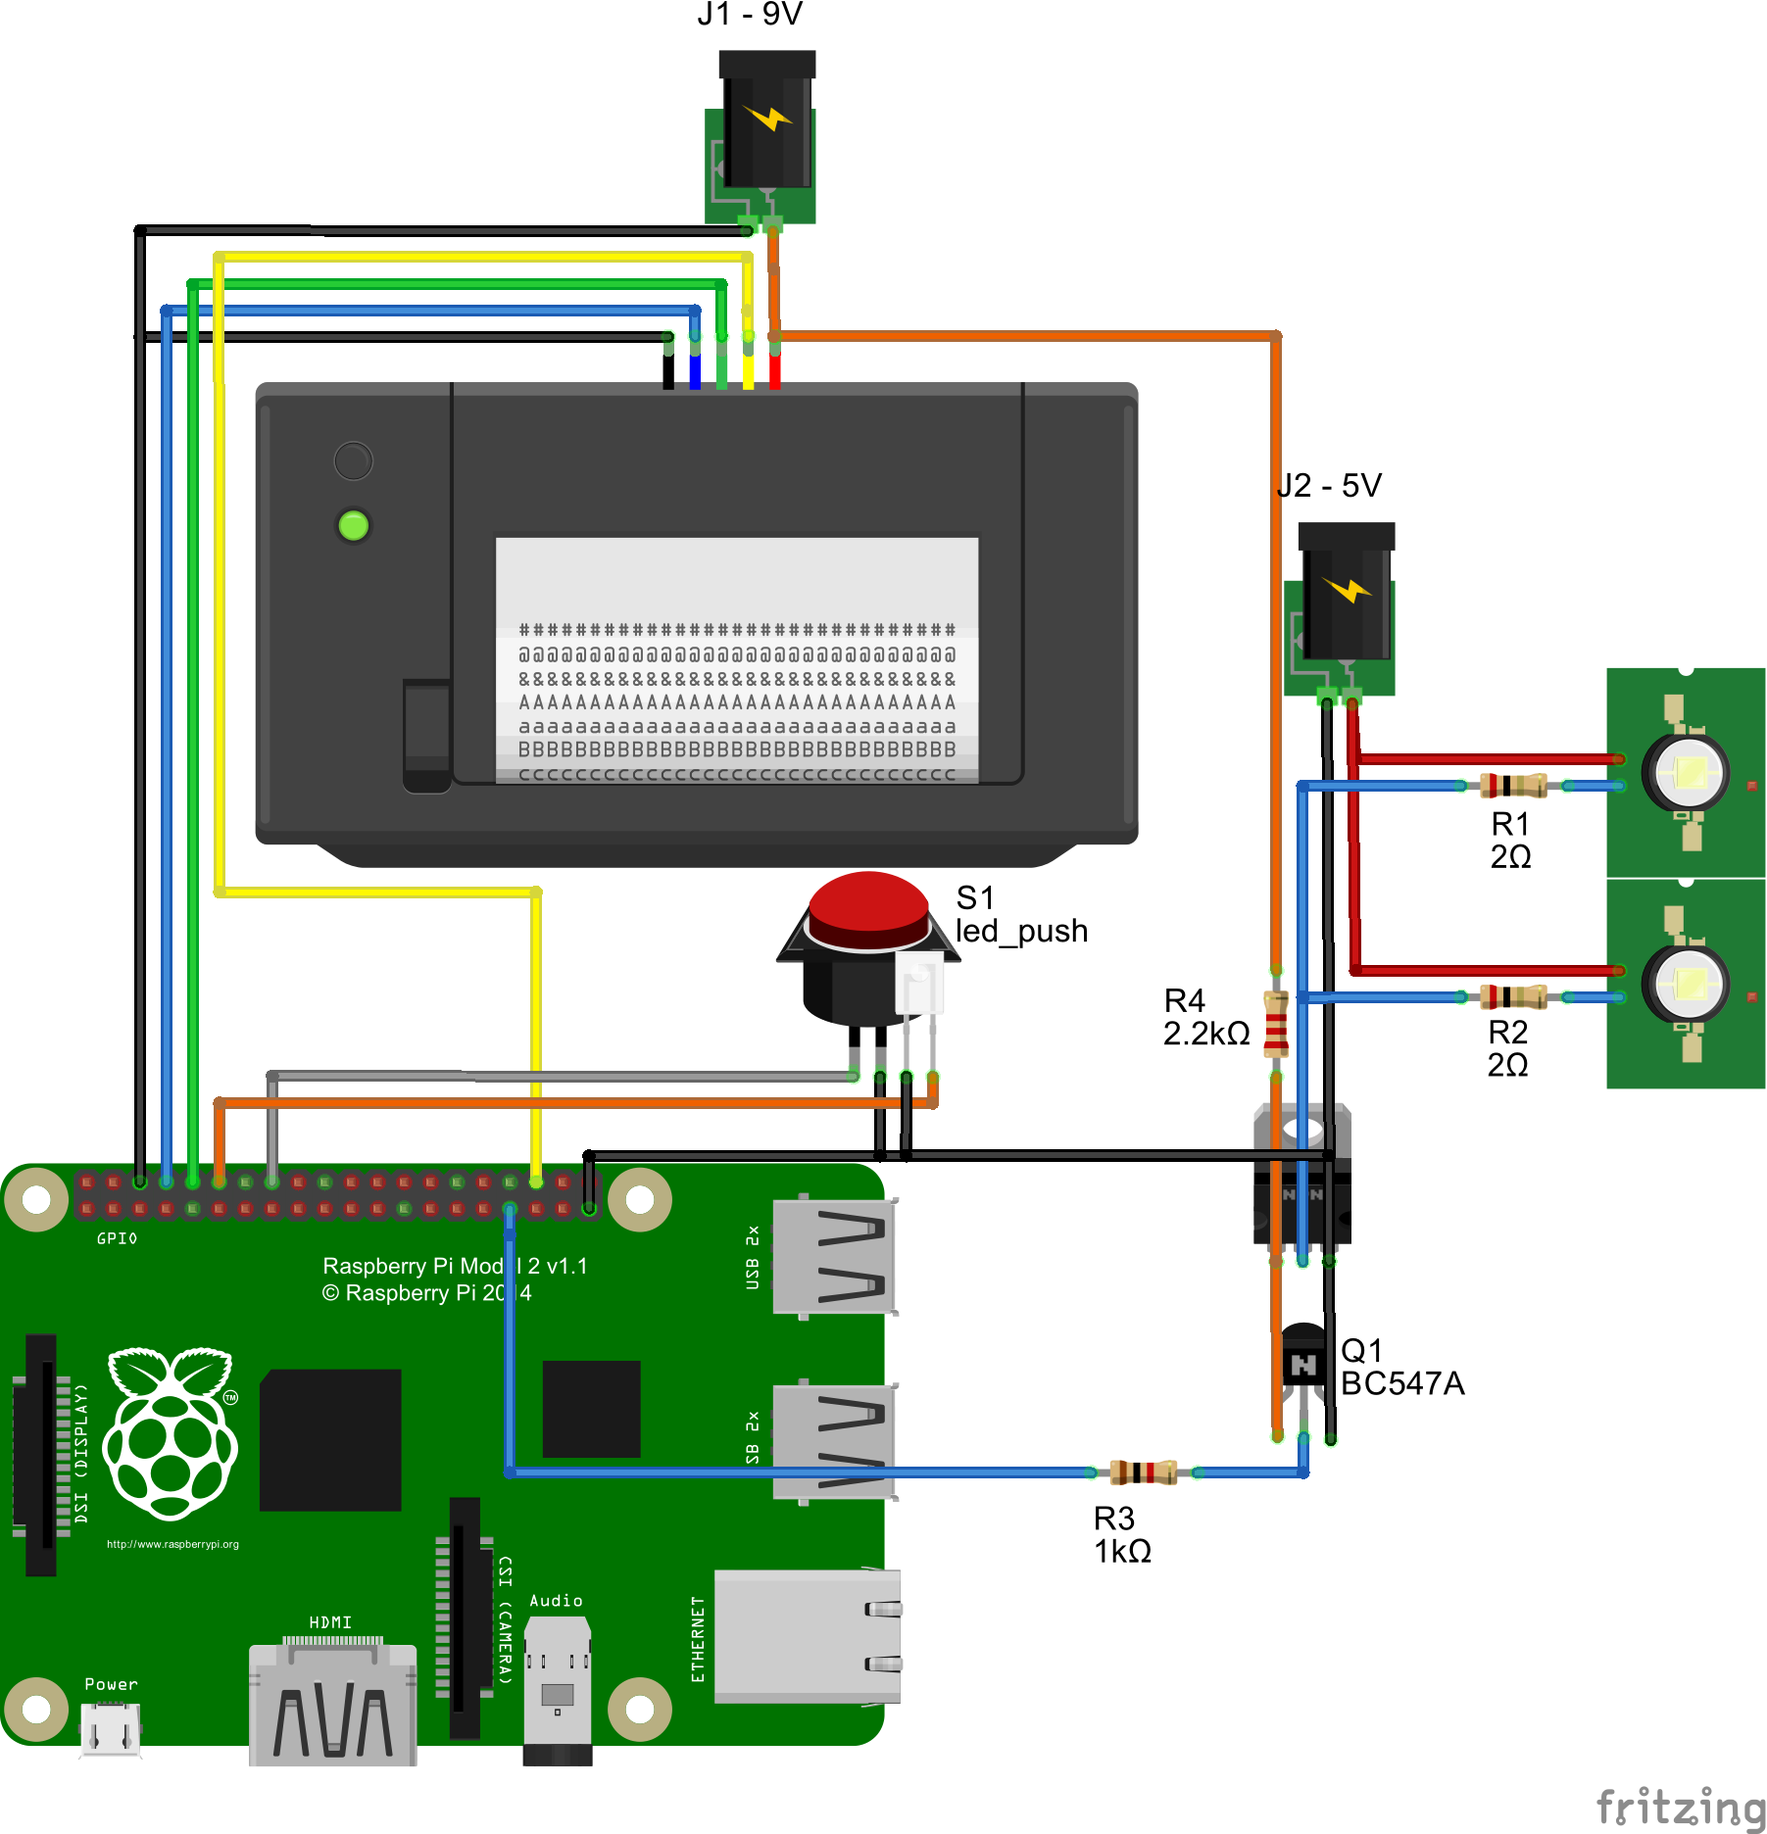
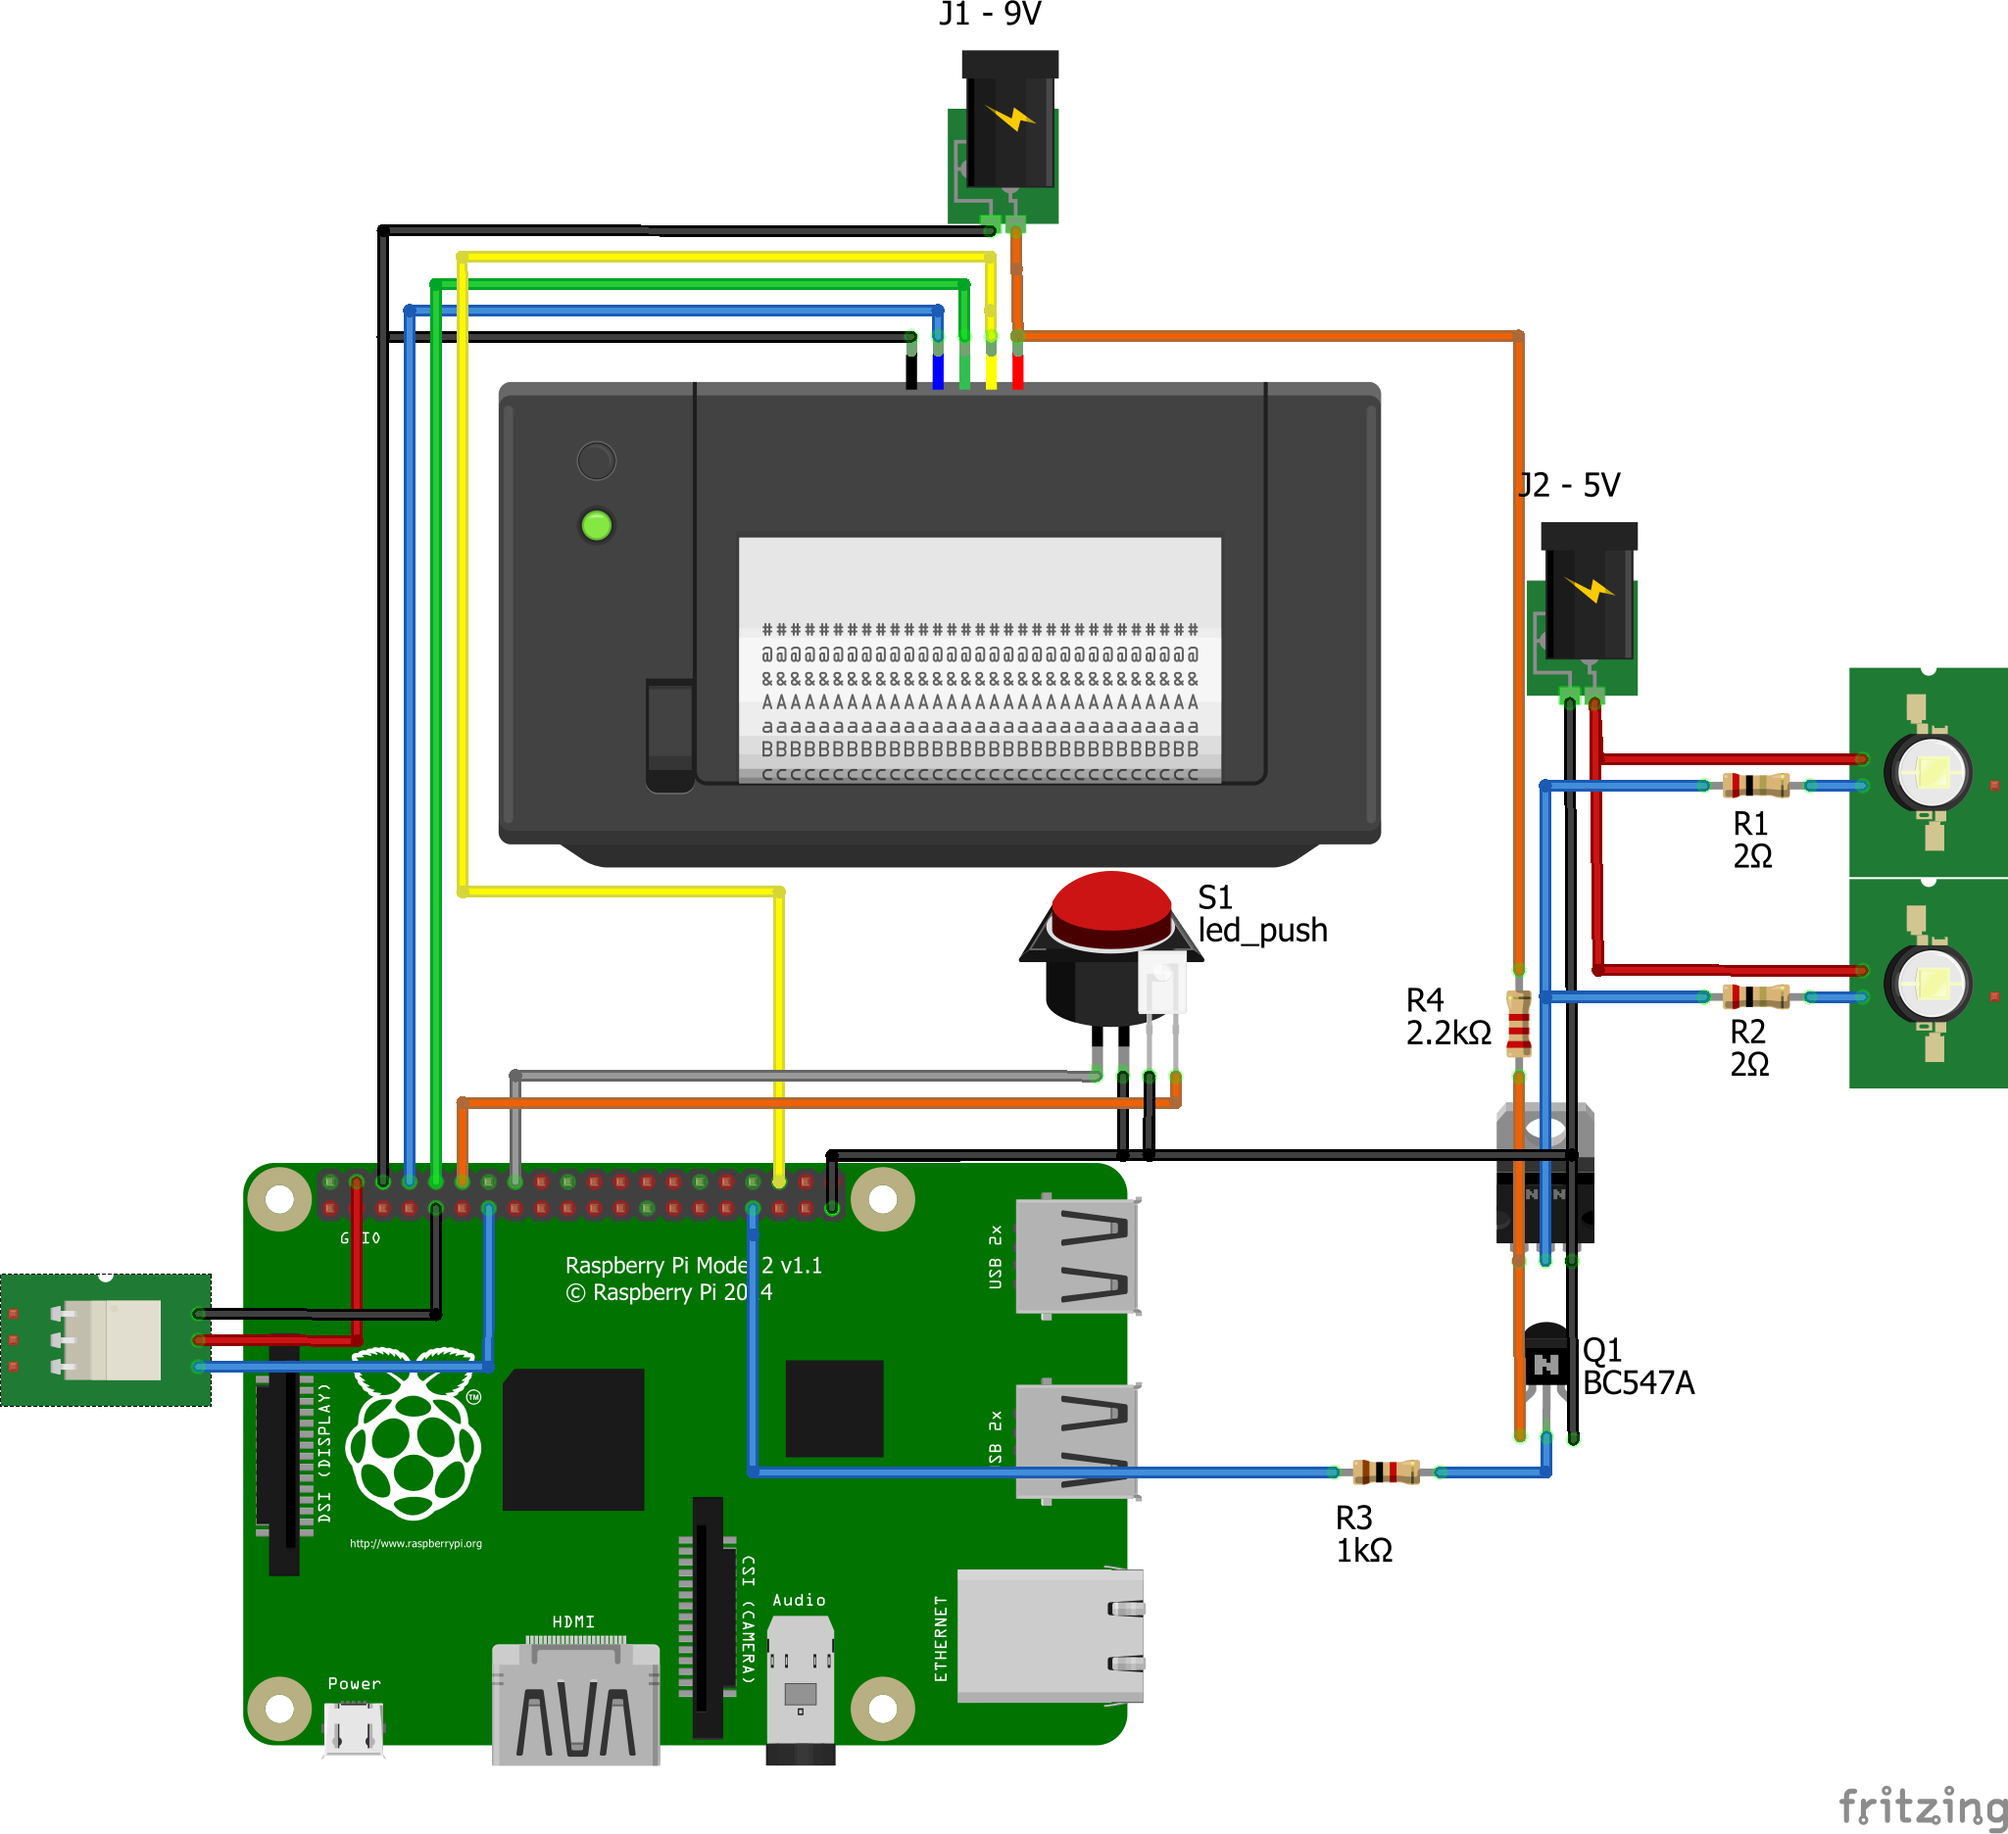
lights: add external controllable light
Add relay to control any external 230V light (needed in dark places, as
tbe builtlin lithts are not so powerful)

Changed region(s): [[0.0, 0.1239, 1.0, 0.9605], [0.3727, 0.0, 0.528, 0.2169], [0.9007, 0.9605, 1.0, 1.0]]

diff --git a/photobooth/platform/pi.py b/photobooth/platform/pi.py
@@ -109,29 +109,41 @@ class Lights(base.Peripherial):
     Also because of MOSFET used everything above value 150 will start to visibly flicker.
     """
 
-    LIGHTS_PIN = 13 # GPIO -> board pin 33
+    LIGHTS_PIN = 13 # GPIO 13 -> board pin 33
+    EXTERNAL_LIGHTS_PIN = 27 # GPIO -> board pin 13
 
     PWM_VAL_DEFAULT = 100
     PWM_VAL_MAX = 1024
 
-    def __init__(self):
+    def __init__(self, external_lights):
+        super(Lights, self).__init__()
+        self.external_lights = external_lights
         # hardware PWM led (and power off lights)
         wiringpi2.pinMode(self.LIGHTS_PIN, wiringpi2.GPIO.PWM_OUTPUT)
         wiringpi2.pwmWrite(self.LIGHTS_PIN, self.PWM_VAL_MAX)
+        if self.external_lights:
+            wiringpi2.pinMode(self.EXTERNAL_LIGHTS_PIN, wiringpi2.GPIO.OUTPUT)
+            wiringpi2.digitalWrite(self.EXTERNAL_LIGHTS_PIN, 1)
 
     def __del__(self):
         wiringpi2.pwmWrite(self.LIGHTS_PIN, self.PWM_VAL_MAX)
+        if self.external_lights:
+            wiringpi2.digitalWrite(self.EXTERNAL_LIGHTS_PIN, 1)
 
     def start(self):
         wiringpi2.pwmWrite(self.LIGHTS_PIN, self.PWM_VAL_DEFAULT)
+        if self.external_lights:
+            wiringpi2.digitalWrite(self.EXTERNAL_LIGHTS_PIN, 0)
 
-    def set_brightness(self, b):
-        if b > self.PWM_VAL_MAX:
-            b = self.PWM_VAL_MAX
+    def set_brightness(self, brightness):
+        if brightness > self.PWM_VAL_MAX:
+            brightness = self.PWM_VAL_MAX
 
-        wiringpi2.pwmWrite(self.LIGHTS_PIN, b)
+        wiringpi2.pwmWrite(self.LIGHTS_PIN, brightness)
 
     def pause(self):
         wiringpi2.pwmWrite(self.LIGHTS_PIN, self.PWM_VAL_MAX)
+        if self.external_lights:
+            wiringpi2.digitalWrite(self.EXTERNAL_LIGHTS_PIN, 1)
 
 

diff --git a/photobooth/controller.py b/photobooth/controller.py
@@ -36,7 +36,7 @@ class PhotoBoothController(object):
 
         # peripherials
         self.button = platform.Button()
-        self.lights = platform.Lights()
+        self.lights = platform.Lights(self.conf['devices']['lights_external'])
         self.button.register_callback(self.button_callback)
 
         # view and model
